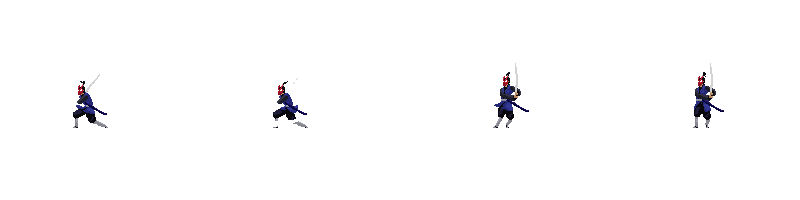
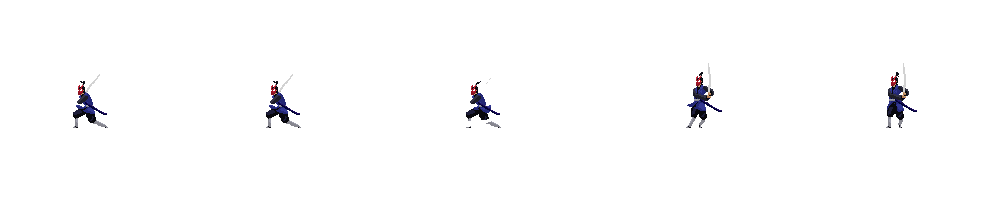
balancing

diff --git a/index.js b/index.js
@@ -159,7 +159,7 @@ const kentonEnemy = new Fighter({
     },
     attack1: {
       imageSrc: './img/kenton-enemy/Attack1.png',
-      framesMax: 4
+      framesMax: 5
     },
     takeHit: {
       imageSrc: './img/kenton-enemy/Take hit.png',
@@ -182,7 +182,7 @@ const kentonEnemy = new Fighter({
       y: 35
     },
     width: 130,
-    height: 65
+    height: 100
   }
 })
 
@@ -323,7 +323,7 @@ const david = new Fighter({
 const daniel = new Fighter({
   id: 5,
   position: {
-    x: 0,
+    x: 400,
     y: 0
   },
   velocity: {
@@ -647,11 +647,11 @@ const christina = new Fighter({
   damageTaken: 10,
   attackBox: {
     offset: {
-      x: 125,
+      x: 120,
       y: 70
     },
-    width: 115,
-    height: 45
+    width: 110,
+    height: 40
   }
 })
 
@@ -714,10 +714,10 @@ const jacob = new Fighter({
   damageTaken: 9,
   attackBox: {
     offset: {
-      x: 110,
+      x: 155,
       y: 110
     },
-    width: 95,
+    width: 50,
     height: 40
   }
 })
@@ -799,7 +799,7 @@ function decideHitFrame() {
     playerHitFrame = 3
   }
   if (enemy.id == 2) {
-    enemyHitFrame = 2
+    enemyHitFrame = 3
   } 
 }
 
@@ -936,7 +936,7 @@ function animate() {
 
     if (player.id == 1) {
       player.attackBox.width = 140;
-      player.damageTaken = 10;
+      player.damageTaken = 9;
       enemy.damageTaken = 5;
     }
 
@@ -963,7 +963,7 @@ function animate() {
       enemy.pushed()
       keys.l.pressed = false
       keys.j.pressed = false
-      enemy.damageTaken = 5;
+      enemy.damageTaken = 4;
       player.attackBox.offset.x = 125;
       player.attackBox.width = 115;
     }
@@ -982,7 +982,7 @@ function animate() {
 
     if (player.id == 1) {
       player.attackBox.width = 140;
-      player.damageTaken = 10;
+      player.damageTaken = 9;
       enemy.damageTaken = 5;
     }
     if (player.id == 4) {
@@ -995,7 +995,7 @@ function animate() {
       enemy.damageTaken = 5;
     }
     if (player.id == 9) {
-      enemy.damageTaken = 5;
+      enemy.damageTaken = 4;
       player.attackBox.offset.x = 125;
       player.attackBox.width = 115;
     }
@@ -1016,26 +1016,14 @@ function animate() {
     gsap.to('#playerHealth', {
       width: player.health + '%'
     })
-    if (player.id == 1 || player.id == 3 || player.id == 5 || player.id == 7) {
-      player.damageTaken == 11
-    } else if (player.id == 9) {
-      player.damageTaken == 9
-    } else {
-      player.damageTaken = 8
-    }
+    player.damageTaken == 9
   }
 
   // if enemy misses
   if (enemy.isAttacking && enemy.framesCurrent === enemyHitFrame) {
     enemy.isAttacking = false
     
-    if (player.id == 1 || player.id == 3 || player.id == 5 || player.id == 7) {
-      player.damageTaken == 11
-    } else if (player.id == 9) {
-      player.damageTaken == 9
-    } else {
-      player.damageTaken = 8
-    }
+    player.damageTaken == 9
   }
 }
 
@@ -1056,32 +1044,40 @@ window.addEventListener('keydown', (event) => {
         player.velocity.y = -20
         break
       case 's':
+        if (player.image !== player.sprites.attack1.image && player.id != 5) {
+          if (player.id == 7) {
+            enemy.damageTaken = 7;
+          }
+          if (player.id == 9) {
+            enemy.damageTaken = 4;
+          }
+          if (player.id == 10) {
+            enemy.damageTaken = 9;
+          }
+          player.attack()
+        }
         if (player.id == 5) {
           enemy.damageTaken = 10;
+          player.attack()
         }
-        if (player.id == 7) {
-          enemy.damageTaken = 7;
-        }
-        if (player.id == 10) {
-          enemy.damageTaken = 9;
-        }
-        player.attack()
         break
       case 'q':
-        if (player.id == 1) {
-          enemy.damageTaken = 15;
+        if (player.image !== player.sprites.skill.image) {
+          if (player.id == 1) {
+            enemy.damageTaken = 15;
+          }
+          if (player.id == 4) {
+            playerHitFrame = 6
+            enemy.damageTaken = 17;
+          }
+          if (player.id == 8) {
+            enemy.damageTaken = 20;
+          }
+          if (player.id == 9) {
+            enemy.damageTaken = 20;
+          }
+          player.skill()
         }
-        if (player.id == 4) {
-          playerHitFrame = 6
-          enemy.damageTaken = 17;
-        }
-        if (player.id == 8) {
-          enemy.damageTaken = 20;
-        }
-        if (player.id == 9) {
-          enemy.damageTaken = 20;
-        }
-        player.skill()
         if (player.id == 7) {
           player.id = tiger.id
           player.scale = tiger.scale
@@ -1129,7 +1125,7 @@ window.addEventListener('keyup', (event) => {
       break
   }
 
-  //enemy keys
+  // enemy keys
   // switch (event.key) {
   //   case 'l':
   //     keys.l.pressed = false
@@ -1154,7 +1150,7 @@ function aiMoves() {
       && enemy.velocity.y == 0
       && enemy.position.x - 300 < player.position.x) {
       if (player.id != 10 || player.id != 6) {
-        enemy.velocity.y = -17
+        enemy.velocity.y = -20
       }
     } else if (player.position.x + 142 < enemy.position.x) {
       keys.j.pressed = true
@@ -1169,9 +1165,9 @@ function aiMoves() {
         enemy.lastKey = 'l'
       }
     } else if (player.position.y < enemy.position.y) {
-      enemy.velocity.y = -12
+      enemy.velocity.y = -13
     } else {
-      if (enemy.framesCurrent <= 1 || enemy.framesCurrent >= 3) {
+      if (enemy.image !== enemy.sprites.attack1.image) {
           enemy.attack()
       } else {
         keys.j.pressed = false

diff --git a/index.html b/index.html
@@ -120,6 +120,8 @@
     </div>
     <!-- red container div -->
     <div id="game" style="position: relative; display: none">
+      <!-- <p>Player: a-left | d-right | w-jump | s-attack | q-special</p>
+      <p>Player: j-left | l-right | i-jump | k-attack | u-special</p> -->
       <!-- smaller red container div -->
       <div
         style="
